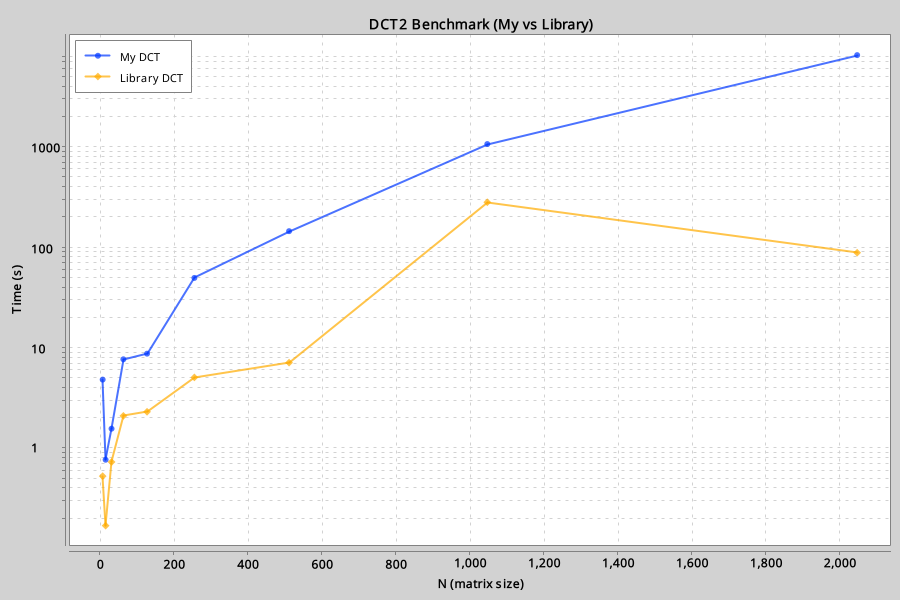
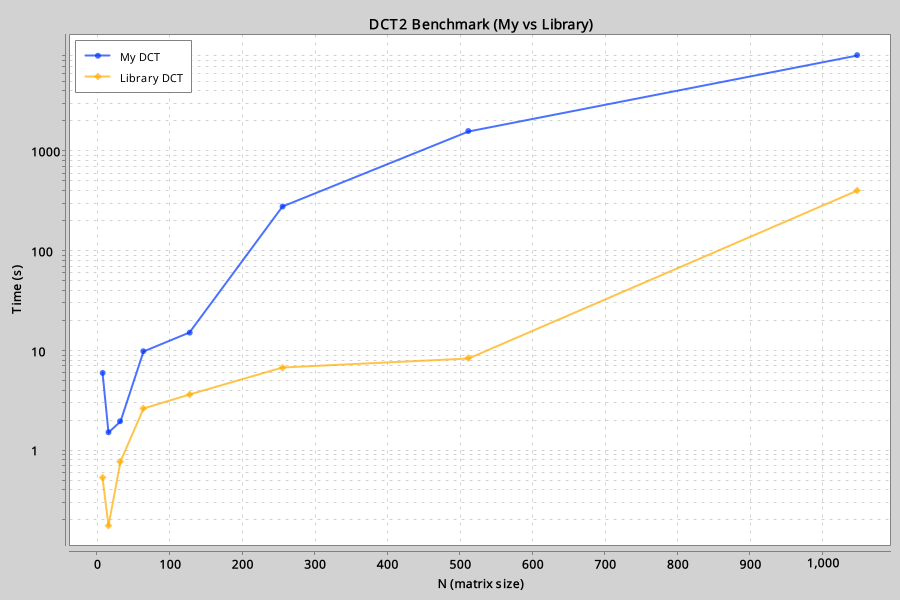
Chenged DCT2 and IDCT2 implementation

diff --git a/src/main/java/com/example/lib/DCT2.java b/src/main/java/com/example/lib/DCT2.java
@@ -1,0 +1,188 @@
+package com.example.lib;
+
+import org.ejml.simple.SimpleMatrix;
+
+import static org.apache.commons.math3.util.FastMath.*;
+
+/**
+ * Implements the Discrete Cosine Transform (DCT) and its inverse (IDCT) for 2D signals.
+ * <p>
+ * This class provides methods to transform 2D signals between spatial and frequency domains using
+ * the DCT-II variant. The transformation is performed by computing DCT basis matrices and applying
+ * them as matrix multiplications. This approach is useful for signal compression, since high-frequency
+ * components can be selectively zeroed to reduce data without significant perceptual loss.
+ * </p>
+ * <p>
+ * Implementation notes:
+ * <ul>
+ *   <li>The forward DCT-II for a 2D signal X is computed as: D * X * D^T (where D is the DCT basis matrix).</li>
+ *   <li>The inverse (IDCT) is computed as: D^T * X * D.</li>
+ *   <li>This class builds the DCT basis matrices using the orthonormal DCT-II formulation:
+ *       the first row is constant (1/sqrt(N)) and subsequent rows are scaled cosine functions.</li>
+ *   <li>The transformations operate on EJML {@link SimpleMatrix} objects.</li>
+ * </ul>
+ * </p>
+ * <p>
+ * Performance / correctness hints:
+ * <ul>
+ *   <li>Computing the D matrix is O(N^2). For repeated transforms of the same size, cache the D matrix externally.</li>
+ *   <li>The current implementation transforms columns then rows (in-place via extraction & insertion).
+ *       While correct, it may not be the most efficient for very large matrices — consider full matrix multiplies
+ *       or specialized DCT libraries (e.g. jtransforms) for performance-critical code.</li>
+ *   <li>All calculations use double precision; numerical roundoff is possible for very large sizes.</li>
+ * </ul>
+ * </p>
+ *
+ * Example usage:
+ * <pre>
+ *     DCT2 dct2 = new DCT2();
+ *     SimpleMatrix spatial = new SimpleMatrix(new double[][]{{ ... }}); // rows x cols
+ *     SimpleMatrix freq = dct2.DCT2(spatial);   // forward transform
+ *     SimpleMatrix recon = dct2.IDCT2(freq);    // inverse transform (reconstruction)
+ * </pre>
+ *
+ * @see org.ejml.simple.SimpleMatrix
+ */
+public class DCT2 {
+    // =========================================================
+    // DCT 2D
+    // =========================================================
+
+    /**
+     * Computes the forward 2D Discrete Cosine Transform of the input signal.
+     * <p>
+     * The transform is applied as: {@code result = Dn * signal * Dm^T}, where {@code Dn} and {@code Dm}
+     * are DCT basis matrices computed for the row and column dimensions respectively.
+     * </p>
+     *
+     * @param signal the input 2D signal as a {@link SimpleMatrix}; shape: rows x cols
+     * @return a new {@link SimpleMatrix} containing the DCT coefficients; the matrix has the same
+     *         dimensions as the input signal
+     */
+    public SimpleMatrix DCT2(SimpleMatrix signal) {
+        SimpleMatrix Dn = computeDMatrix(signal.getNumRows());
+        SimpleMatrix Dm = computeDMatrix(signal.getNumCols());
+        // For forward DCT we want: Dn * signal * Dm^T
+        return coreTransform(signal, Dn, Dm);
+    }
+
+    // =========================================================
+    // IDCT 2D
+    // =========================================================
+
+    /**
+     * Computes the inverse 2D Discrete Cosine Transform of the input signal.
+     * <p>
+     * The inverse transform is applied as: {@code result = Dn^T * signal * Dm}, where {@code Dn} and {@code Dm}
+     * are DCT basis matrices computed for the row and column dimensions respectively. This operation
+     * reconstructs a spatial-domain signal from its frequency-domain DCT coefficients.
+     * </p>
+     *
+     * @param signal the input signal in the frequency domain (typically the result of {@link #DCT2})
+     * @return a new {@link SimpleMatrix} containing the reconstructed spatial-domain signal; the matrix has the same
+     *         dimensions as the input signal
+     */
+    public SimpleMatrix IDCT2(SimpleMatrix signal) {
+        SimpleMatrix Dn = computeDMatrix(signal.getNumRows());
+        SimpleMatrix Dm = computeDMatrix(signal.getNumCols());
+        // For inverse DCT we want: Dn^T * signal * Dm
+        // Passing Dn.transpose() and Dm.transpose() to coreTransform yields this result
+        return coreTransform(signal, Dn.transpose(), Dm.transpose());
+    }
+
+    /**
+     * Core transform helper that applies separable transformations to the input signal.
+     * <p>
+     * Given matrices Dn and Dm, this method applies the transform in two passes:
+     * <ol>
+     *   <li>For each column: replace column c with (Dm * column_c)</li>
+     *   <li>For each row: replace row r with (Dn * (row_r)^T)^T</li>
+     * </ol>
+     * The combination of these two passes produces the effect of: result = Dn * signal * Dm^T when
+     * Dn and Dm were constructed as forward D matrices. If Dn and Dm are transposed versions,
+     * the net effect corresponds to the inverse transform.
+     * </p>
+     *
+     * Implementation notes:
+     * <ul>
+     *   <li>The method performs operations by extracting column/row vectors and reinserting transformed vectors.
+     *       This avoids allocating many full intermediate matrices, but still does many vector operations.</li>
+     *   <li>All insertions use {@link SimpleMatrix#insertIntoThis(int, int, SimpleMatrix)} which mutates
+     *       the working matrix copy. The input {@code signal} is copied at the start to avoid mutating the caller's matrix.</li>
+     * </ul>
+     *
+     * @param signal the input matrix to transform (will not be modified directly; a copy is used)
+     * @param Dn     transform matrix to apply to rows (or its transpose depending on forward/inverse choice)
+     * @param Dm     transform matrix to apply to columns (or its transpose depending on forward/inverse choice)
+     * @return the transformed matrix (same dimensions as {@code signal})
+     */
+    private SimpleMatrix coreTransform(SimpleMatrix signal, SimpleMatrix Dn, SimpleMatrix Dm){
+        // Work on a copy to avoid mutating the caller-supplied matrix
+        SimpleMatrix result = signal.copy();
+
+        // Apply column-wise multiplication: for each column c, replace with Dm * column_c
+        // After this loop the matrix effectively holds signal * Dm^T (depending on orientation of Dm).
+        for (int i = 0; i < result.getNumCols(); i++) {
+            // extractVector(false, i) returns a column vector as a SimpleMatrix (n x 1)
+            SimpleMatrix col = result.extractVector(false, i);
+            SimpleMatrix transformed = Dm.mult(col);
+            // Insert transformed column back into result at column index i
+            // insertIntoThis(0, i, transformed) inserts transformed starting at row 0, column i
+            result.insertIntoThis(0, i, transformed);
+        }
+
+        // Apply row-wise multiplication: for each row r, replace with Dn * row_r (taking care of shapes)
+        // We extract row as a 1 x m matrix, transpose to m x 1, multiply by Dn, then transpose back to 1 x m.
+        for (int i = 0; i < result.getNumRows(); i++) {
+            SimpleMatrix row = result.extractVector(true, i); // 1 x cols
+            // Convert to column vector, apply Dn, convert back to row
+            SimpleMatrix transformed = Dn.mult(row.transpose()).transpose();
+            // Insert transformed row back into result at row index i
+            result.insertIntoThis(i, 0, transformed);
+        }
+
+        return result;
+    }
+
+    // =========================================================
+    // D MATRIX
+    // =========================================================
+
+    /**
+     * Computes the DCT-II basis matrix for the specified size.
+     * <p>
+     * The basis matrix is constructed as follows:
+     * </p>
+     * <ul>
+     *   <li>The first row contains the constant basis: {@code D[0][j] = 1 / sqrt(size)}</li>
+     *   <li>Subsequent rows contain cosine basis functions:
+     *       {@code D[i][j] = sqrt(2 / size) * cos(π * (j + 0.5) * i / size)} for {@code i >= 1}</li>
+     * </ul>
+     * <p>
+     * This matrix is orthonormal (with the chosen scaling) and is used in matrix multiplications to perform
+     * the forward and inverse transforms.
+     * </p>
+     *
+     * @param size the dimension of the square basis matrix to compute
+     * @return a {@link SimpleMatrix} of size {@code size x size} containing the DCT basis functions
+     */
+    private SimpleMatrix computeDMatrix(int size) {
+
+        double[][] D = new double[size][size];
+
+        // First row is constant: 1 / sqrt(size)
+        for (int j = 0; j < size; j++) {
+            D[0][j] = 1.0 / sqrt(size);
+        }
+
+        // Remaining rows follow the DCT-II basis formula
+        for (int i = 1; i < size; i++) {
+            for (int j = 0; j < size; j++) {
+                D[i][j] = sqrt(2.0 / size) *
+                        cos(PI * (j + 0.5) * i / size);
+            }
+        }
+
+        return new SimpleMatrix(D);
+    }
+}

diff --git a/src/main/java/com/example/assignment/Part1.java b/src/main/java/com/example/assignment/Part1.java
@@ -1,6 +1,6 @@
 package com.example.assignment;
 
-import com.example.lib.DCT;
+import com.example.lib.DCT2;
 import com.example.lib.utils.OpenCsvUtils;
 import com.example.lib.utils.PlotUtils;
 import org.ejml.simple.SimpleMatrix;
@@ -71,7 +71,7 @@ public class Part1 {
      */
     public void benchmark(int[] sizes) {
 
-        DCT dct = new DCT();
+        DCT2 dct = new DCT2();
 
         for (int n : sizes) {
 
@@ -85,14 +85,10 @@ public class Part1 {
             DoubleDCT_2D lib = new DoubleDCT_2D(n, n);
 
             // ===== MY DCT =====
-            double myTime = measure(() -> {
-                dct.DCT2(input);
-            }, 3);
+            double myTime = measure(() -> dct.DCT2(input), 3);
 
             // ===== LIB DCT =====
-            double libTime = measure(() -> {
-                lib.forward(copy2, true);
-            }, 3);
+            double libTime = measure(() -> lib.forward(copy2, true), 3);
 
             results.add(new Result(n, myTime, libTime));
 

diff --git a/src/main/java/com/example/UI/PartChooserWindow.java b/src/main/java/com/example/UI/PartChooserWindow.java
@@ -47,7 +47,13 @@ public class PartChooserWindow extends JFrame {
         part1Button.addActionListener(e -> {
             log.info("Part 1 selected");
             Part1 part1 = new Part1();
-            part1.benchmark(new int[]{8, 16, 32, 64, 128, 256, 512, 1048, 2048});
+            new SwingWorker<Void, Void>() {
+                @Override
+                protected Void doInBackground() {
+                    part1.benchmark(new int[]{8, 16, 32, 64, 128, 256, 512, 1048});
+                    return null;
+                }
+            }.execute();
         });
 
         part2Button.addActionListener(e -> {

diff --git a/src/main/java/com/example/Application.java b/src/main/java/com/example/Application.java
@@ -37,6 +37,6 @@ public class Application {
      * @param args command-line arguments (not used)
      */
     public static void main(String[] args) {
-        PartChooserWindow partChoserWIndow = new PartChooserWindow();
+        new PartChooserWindow();
     }
 }